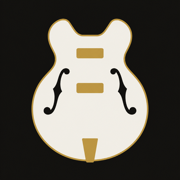
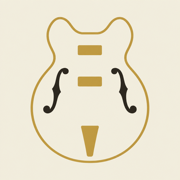
White Falcon palette: ivory, ebony, one gold accent
Retoken the whole site to the guitar it is named after. Ivory
background, warm ebony ink, gold only on the primary action, status
marks and the active day hairline. Fretboard keeps its ebony board with
ivory tone dots, a gold root and hump-block inlays. Hero stand-in is the
ivory body outline with gold binding until the photo lands. Icons and
manifest regenerated on ivory. Brand mark shown in the rail, top bar
and landing chrome.

DESIGN.md is updated first and lints clean; two static assertions that
hardcoded the old palette now assert the new one. All 19 visual
baselines regenerated and reviewed.

diff --git a/src/styles/global.css b/src/styles/global.css
@@ -2,23 +2,23 @@
    custom property here is a token there. OKLCH only. One radius. Three faces:
    Fraunces (display), Schibsted Grotesk (text), JetBrains Mono (numbers). */
 :root{
-  --bg:        oklch(0.17 0.006 60);
-  --surface:   oklch(0.21 0.007 60);
-  --card:      oklch(0.24 0.008 60);
-  --ink:       oklch(0.94 0.006 80);
-  --ink-soft:  oklch(0.70 0.008 70);
-  --ink-faint: oklch(0.52 0.008 70);
-  --line:      oklch(0.27 0.008 60);
-  --accent:    oklch(0.72 0.12 250);
-  --accent-ink:oklch(0.15 0.02 250);
+  --bg:        oklch(0.955 0.012 85);
+  --surface:   oklch(0.93 0.014 85);
+  --card:      oklch(0.905 0.016 85);
+  --ink:       oklch(0.20 0.012 60);
+  --ink-soft:  oklch(0.42 0.012 60);
+  --ink-faint: oklch(0.60 0.012 70);
+  --line:      oklch(0.87 0.02 85);
+  --accent:    oklch(0.68 0.13 80);
+  --accent-ink:oklch(0.20 0.05 70);
   --danger:    oklch(0.55 0.16 25);
   /* fretboard material, not UI colour */
-  --board:     oklch(0.28 0.04 50);
+  --board:     oklch(0.22 0.012 60);
   --fret:      oklch(0.74 0.03 85);
-  --string:    oklch(0.91 0.02 85);
-  --tone:      oklch(0.93 0.02 85);
+  --string:    oklch(0.88 0.015 85);
+  --tone:      oklch(0.95 0.012 85);
   --root:      var(--accent);
-  --scrim:     oklch(0 0 0 / 0.5);
+  --scrim:     oklch(0.20 0.012 60 / 0.35);
 
   --radius: 2px;
 
@@ -38,7 +38,7 @@
   --track-caps: 0.12em;
 }
 *{box-sizing:border-box}
-html{-webkit-text-size-adjust:100%;color-scheme:dark;-webkit-tap-highlight-color:transparent}
+html{-webkit-text-size-adjust:100%;color-scheme:light;-webkit-tap-highlight-color:transparent}
 :focus-visible{outline:2px solid var(--ink);outline-offset:2px}
 @media (prefers-reduced-motion:reduce){
   *,*::before,*::after{transition-duration:0.01ms !important;animation-duration:0.01ms !important;scroll-behavior:auto !important}

diff --git a/tests/static/design-drift.test.ts b/tests/static/design-drift.test.ts
@@ -127,8 +127,8 @@ describe("DESIGN.md → Elevation & Depth: flat", () => {
   });
   it("the hero mask is the page colour at partial opacity, no hard edge", () => {
     const mask = grep(/\.hero h1::before\{/)[0]?.text ?? "";
-    expect(mask).toMatch(/oklch\(0\.17 0\.006 60 \/ 0\.\d+\)/);
-    expect(mask).toMatch(/oklch\(0\.17 0\.006 60 \/ 0\)/);
+    expect(mask).toMatch(/oklch\(0\.955 0\.012 85 \/ 0\.\d+\)/);
+    expect(mask).toMatch(/oklch\(0\.955 0\.012 85 \/ 0\)/);
   });
 });
 
@@ -179,9 +179,9 @@ describe("DESIGN.md → Do's and Don'ts: labels and behaviour", () => {
     expect(app).toMatch(/class="mark"[^>]*>Back seat to lead</);
     expect(styleOf("src/layouts/App.astro")).toMatch(/\.rail \.mark\{[^}]*font-family:var\(--display\)/);
   });
-  it("the product stays dark", () => {
-    expect(read("src/styles/global.css")).toMatch(/color-scheme:\s*dark/);
-    const light = grep(/prefers-color-scheme:\s*light/);
-    expect(light, fmt(light)).toEqual([]);
+  it("the product stays ivory (White Falcon retoken, DESIGN.md 2026-09-21)", () => {
+    expect(read("src/styles/global.css")).toMatch(/color-scheme:\s*light/);
+    const dark = grep(/prefers-color-scheme:\s*dark/);
+    expect(dark, fmt(dark)).toEqual([]);
   });
 });

diff --git a/src/lib/fretboard.js b/src/lib/fretboard.js
@@ -41,16 +41,18 @@ export function fretboardSVG({
     s += `<line x1="${x}" y1="${top - 10}" x2="${x}" y2="${H - bottom + 10}" stroke="var(--fret)" stroke-width="3"/>`;
   }
 
-  // fret markers + numbers, one per column
+  // fret markers + numbers, one per column. Markers are hump-block inlays:
+  // a small ivory rounded rectangle, not a dot.
   if (fretMarkers) {
+    const hb = (cx, cy) => `<rect x="${cx - 9}" y="${cy - 5}" width="18" height="10" rx="3" fill="var(--tone)" opacity="0.55"/>`;
     for (let i = 0; i < nFrets; i++) {
       const f = fretStart + i;
       const cx = left + i * fw + fw / 2;
       if ([3, 5, 7, 9].includes(f)) {
-        s += `<circle cx="${cx}" cy="${top + sh * 2.5}" r="4" fill="var(--ink-faint)"/>`;
+        s += hb(cx, top + sh * 2.5);
       }
       if (f === 12) {
-        s += `<circle cx="${cx}" cy="${top + sh * 1.5}" r="4" fill="var(--ink-faint)"/><circle cx="${cx}" cy="${top + sh * 3.5}" r="4" fill="var(--ink-faint)"/>`;
+        s += hb(cx, top + sh * 1.5) + hb(cx, top + sh * 3.5);
       }
       s += `<text x="${cx}" y="${H - 8}" font-size="13" fill="var(--ink-faint)" text-anchor="middle">${f}</text>`;
     }

diff --git a/DESIGN.md b/DESIGN.md
@@ -1,24 +1,24 @@
 ---
 version: alpha
 name: Back seat to lead
-description: A rhythm guitarist's practice course, learned in public. Dark, warm, quiet. One accent.
+description: A rhythm guitarist's practice course, learned in public. Ivory, ebony, one gold accent. Quiet.
 colors:
-  bg: "oklch(0.17 0.006 60)"
-  surface: "oklch(0.21 0.007 60)"
-  card: "oklch(0.24 0.008 60)"
-  ink: "oklch(0.94 0.006 80)"
-  ink-soft: "oklch(0.70 0.008 70)"
-  ink-faint: "oklch(0.52 0.008 70)"
-  line: "oklch(0.27 0.008 60)"
-  accent: "oklch(0.72 0.12 250)"
-  accent-ink: "oklch(0.15 0.02 250)"
+  bg: "oklch(0.955 0.012 85)"
+  surface: "oklch(0.93 0.014 85)"
+  card: "oklch(0.905 0.016 85)"
+  ink: "oklch(0.20 0.012 60)"
+  ink-soft: "oklch(0.42 0.012 60)"
+  ink-faint: "oklch(0.60 0.012 70)"
+  line: "oklch(0.87 0.02 85)"
+  accent: "oklch(0.68 0.13 80)"
+  accent-ink: "oklch(0.20 0.05 70)"
   danger: "oklch(0.55 0.16 25)"
-  board: "oklch(0.28 0.04 50)"
+  board: "oklch(0.22 0.012 60)"
   fret: "oklch(0.74 0.03 85)"
-  string: "oklch(0.91 0.02 85)"
-  tone: "oklch(0.93 0.02 85)"
+  string: "oklch(0.88 0.015 85)"
+  tone: "oklch(0.95 0.012 85)"
   root: "{colors.accent}"
-  scrim: "oklch(0 0 0 / 0.5)"
+  scrim: "oklch(0.20 0.012 60 / 0.35)"
   primary: "{colors.ink}"
   secondary: "{colors.ink-soft}"
   tertiary: "{colors.accent}"
@@ -293,50 +293,56 @@ The single failure test: if the result could be reused for a different product
 just by changing the noun, it has failed. The design must be staged around
 *this* product, not next to a generic template.
 
-The product is dark. It stays dark. Do not "fix" it to light paper.
+The product is ivory. It stays ivory. Do not "fix" it to a dark theme.
 
 ## Colors
 
-OKLCH only. No hex, no HSL, no rgb anywhere in source. Warm near-black
-background, warm off-white ink, hairlines within 0.04 L of their surface, one
-committed ink-blue accent. Every hue sits between 50 and 85 (warm) except the
-accent (250) and danger (25).
+OKLCH only. No hex, no HSL, no rgb anywhere in source. Ivory background, warm
+ebony ink, hairlines within 0.04 L of their surface, one committed gold
+accent. Every hue sits between 50 and 85 (warm) except danger (25); the accent
+sits at 80, inside the warm range, but is the one saturated note against the
+otherwise near-neutral ivory/ebony stack.
 
-- **Background (`bg`, oklch 0.17 0.006 60):** warm near-black. The page. Every
+- **Background (`bg`, oklch 0.955 0.012 85):** ivory. The page. Every
   full-bleed image sits on this with no card around it.
-- **Surface (`surface`, 0.21):** the rail and the sidebar. One step up.
-- **Card (`card`, 0.24):** raised rows, the timer, the metronome, the active
-  day in the sidebar, `code`. Two steps up. This is the top of the tonal stack.
-- **Ink (`ink`, 0.94 0.006 80):** body text. ≥ 12:1 on `bg`. Editorial
-  sharpness, not WCAG-minimum grey. Also the "active" colour in chrome: the
-  active stepper step, the active rail item, the selected subdivision, the
-  progress-bar fill, the goal tick.
-- **Ink soft (`ink-soft`, 0.70):** secondary text, kickers, crumbs, the note
+- **Surface (`surface`, 0.93):** the rail and the sidebar. One step down.
+- **Card (`card`, 0.905):** raised rows, the timer, the metronome, the active
+  day in the sidebar, `code`. Two steps down. This is the base of the tonal
+  stack.
+- **Ink (`ink`, 0.20 0.012 60):** warm ebony body text. ≥ 12:1 on `bg`.
+  Editorial sharpness, not WCAG-minimum grey. Also the "active" colour in
+  chrome: the active stepper step, the active rail item, the selected
+  subdivision, the progress-bar fill, the goal tick.
+- **Ink soft (`ink-soft`, 0.42):** secondary text, kickers, crumbs, the note
   callout's left rule, the timer bar.
-- **Ink faint (`ink-faint`, 0.52):** metadata, disabled, locked phases, day
+- **Ink faint (`ink-faint`, 0.60):** metadata, disabled, locked phases, day
   numbers, fret-marker dots, string names.
-- **Line (`line`, 0.27 0.008 60):** hairlines. 0.03 L above `card`. Borders,
-  dividers, the todo ring, the empty track of a bar.
-- **Accent (`accent`, 0.72 0.12 250):** ink-blue. The only saturated element
-  on any screen. Appears on exactly two kinds of thing: status marks (done,
-  current) and the one primary action per screen. Nowhere else. Not on phase
-  titles, not on the timer bar, not on stepper underlines, not on sidebar
-  borders, not on hover.
-- **Accent ink (`accent-ink`, 0.15 0.02 250):** text on the accent. Also the
-  outline and label on fretboard dots.
+- **Line (`line`, 0.87 0.02 85):** hairlines. Within 0.04 L of `card`.
+  Borders, dividers, the todo ring, the empty track of a bar.
+- **Accent (`accent`, 0.68 0.13 80):** gold. The only saturated element on any
+  screen. Fills and hairlines only: appears on exactly two kinds of thing —
+  status marks (done, current) and the one primary action per screen — plus a
+  1px gold hairline on the active sidebar day card. Nowhere else. Not on phase
+  titles, not on the timer bar, not on stepper underlines, not on hover. Never
+  as text colour below 20px (it fails contrast on ivory) — gold text is only
+  ever set at headline sizes, and even there it is spent like the rest of the
+  budget, not as a default heading colour.
+- **Accent ink (`accent-ink`, 0.20 0.05 70):** text on the accent. Also the
+  outline and label on fretboard dots, and the done check mark on
+  `StatusIcon.astro`.
 - **Danger (`danger`, 0.55 0.16 25):** destructive confirmation only, as
   `button-danger` (danger text and border on `card`; never a filled red
   button). Not yet used anywhere. Never for
   validation, never for "error" banners.
-- **Scrim (`scrim`, oklch 0 0 0 / 0.5):** the drawer backdrop under 900px, as
-  its own element.
+- **Scrim (`scrim`, oklch 0.20 0.012 60 / 0.35):** the drawer backdrop under
+  900px, as its own element.
 
-Fretboard material, not UI colour: `board` (0.28 0.04 50, the wood),
-`fret` (0.74 0.03 85, the wire), `string` (0.91 0.02 85), `tone` (0.93 0.02 85,
-a scale-tone dot). `root` is the accent: the root dot is the one thing on a
-diagram that is allowed to be blue. The renderer in `src/lib/fretboard.js`
-reads these as `var(--board)` etc.; its geometry is not a design value and does
-not change.
+Fretboard material, not UI colour: `board` (0.22 0.012 60, the ebony wood, the
+one part of the app that stays dark), `fret` (0.74 0.03 85, the wire),
+`string` (0.88 0.015 85), `tone` (0.95 0.012 85, an ivory scale-tone dot). `root`
+is the accent: the root dot is the one thing on a diagram that is allowed to
+be gold. The renderer in `src/lib/fretboard.js` reads these as `var(--board)`
+etc.; its geometry is not a design value and does not change.
 
 The generic names `primary`, `secondary`, `tertiary`, `neutral` are aliases for
 `ink`, `ink-soft`, `accent`, `bg` so that tooling expecting them resolves.
@@ -349,6 +355,8 @@ Contrast rules:
 - The accent appears at most once per section on the landing page and at most
   on status marks + one primary action inside the app. Never on two elements
   in the hero.
+- Gold is never set as text `color` below 20px. Grep any `--accent` used as
+  `color:` on text and confirm it is `--ink` unless the text is ≥ 20px.
 - A hero headline over the image never depends on the photo for legibility:
   either it sits over negative space, or a feathered mask of the page colour
   (`bg` at ≤ 0.9 opacity, ramped, no hard edge, L drop ≤ 0.15) sits behind it.
@@ -500,8 +508,10 @@ radius ladder (the old 2 / 4 / 5 / 6 / 8 / 9 / 10 / 12 / 14px is gone).
 - **Fretboard diagrams.** SVG from `src/lib/fretboard.js`, `.board` max 600px
   in the app, full-bleed on the landing page. Wood tones as above, root dot
   `accent`, tone dot `tone`, labels and dot outlines `accent-ink`, mute marks
-  `string` with a `board` stroke. Chord boxes: `ink` lines, `ink` dots with
-  `bg` finger numbers, root dot `accent`.
+  `string` with a `board` stroke. Fret position markers at 3/5/7/9 (and the
+  double at 12) are small ivory hump-block inlays: an 18×10 rounded rectangle,
+  fill `tone`, opacity 0.55, same positions the round dots used. Chord boxes:
+  `ink` lines, `ink` dots with `bg` finger numbers, root dot `accent`.
 - **Drawer scrim.** Own element after the sidebar, `scrim`, fades in 200ms.
 - **404 / empty states.** A single object, left-aligned like everything else
   unless it is truly a single object on an otherwise empty page, in which case
@@ -524,7 +534,7 @@ radius ladder (the old 2 / 4 / 5 / 6 / 8 / 9 / 10 / 12 / 14px is gone).
   or lift.
 - Do keep the wordmark as type. Don't put a gradient on it or on the pathway
   art.
-- Do keep the product dark. Don't add a light theme.
+- Do keep the product ivory. Don't "fix" it to a dark theme.
 - Do keep the pull-quote as the author's own log line. Don't invent a
   testimonial, review, subscriber count or "trusted by".
 - Do describe the author as "I play rhythm guitar in a band". Don't name an
@@ -584,7 +594,8 @@ Project-specific slop:
 - Gradients on the wordmark or pathway art.
 - A stats row on `/path/`. Progress is one line of mono text.
 - Accent on more than status marks + one primary action per screen.
-- A light theme.
+- Gold set as text colour below 20px.
+- A dark theme.
 - Changing routes, content, data files, the log, or the fretboard renderer's
   geometry.
 
